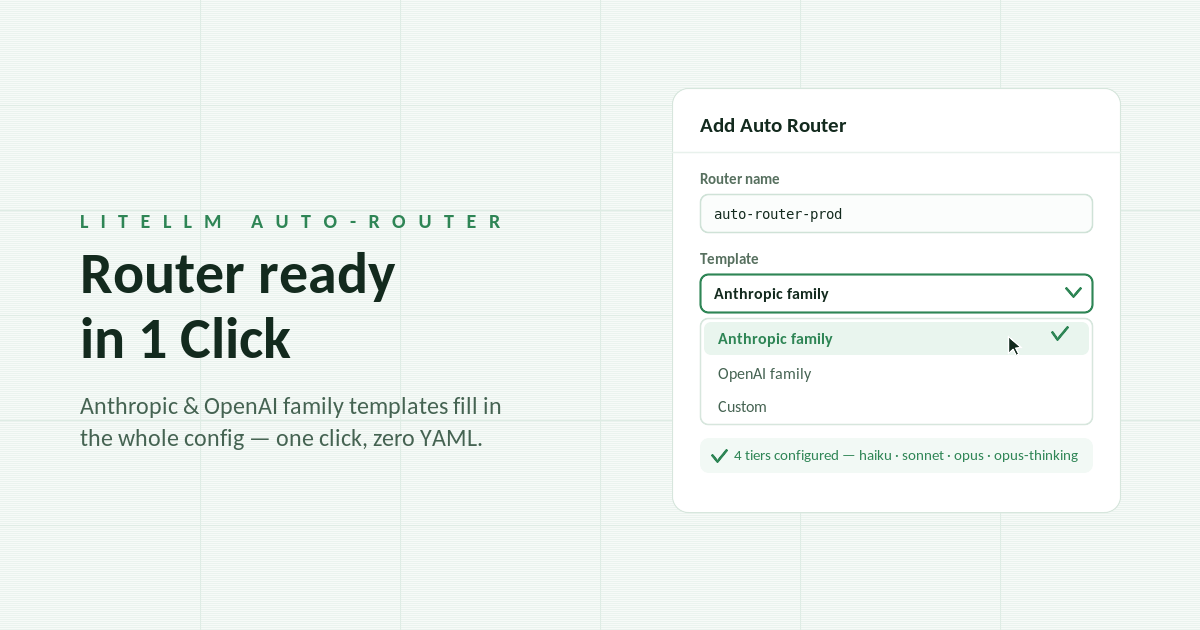
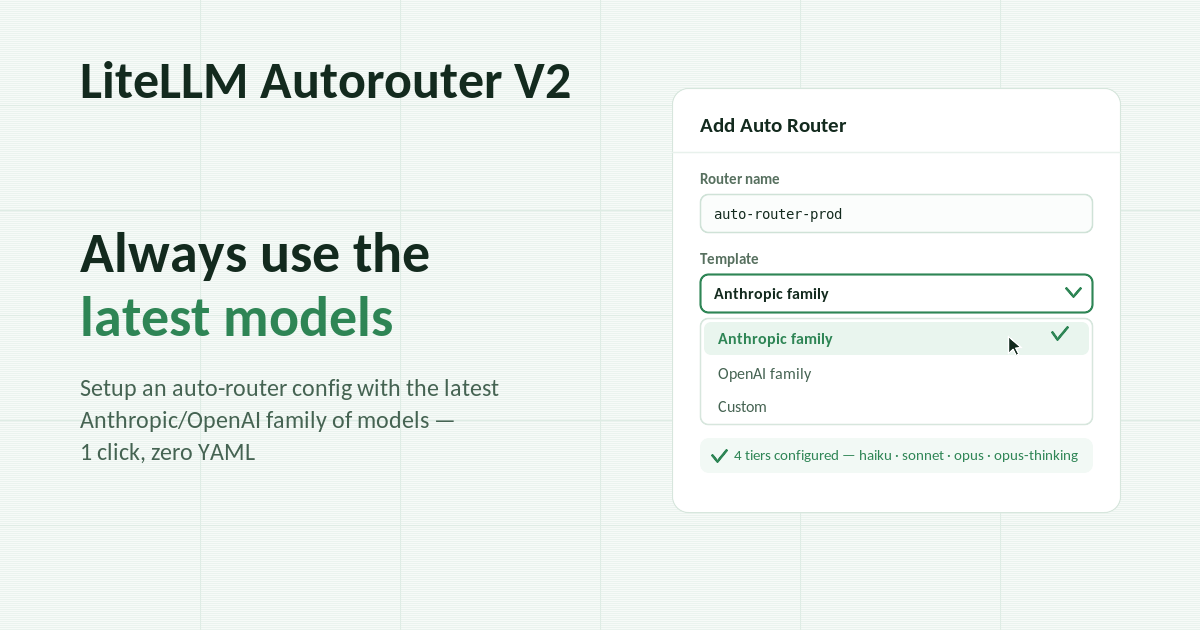
blog(autorouter): new hero, clarify preset model coverage (#781)

Changed region(s): [[0.0617, 0.3317, 0.4317, 0.573], [0.0617, 0.6032, 0.4317, 0.754], [0.0617, 0.0905, 0.4933, 0.181]]

diff --git a/blog/autorouter_setup_and_testing/index.md b/blog/autorouter_setup_and_testing/index.md
@@ -11,7 +11,7 @@ tags: [routing, complexity-router, ui, engineering]
 hide_table_of_contents: false
 ---
 
-![LiteLLM Auto-Router: router ready in 1 click](./hero.png)
+![LiteLLM Autorouter V2: always use the latest models](./hero.png)
 
 We've made it easier than ever to setup and test your Auto-Router, and with customizable tier names + classifier system prompts you can go beyond complexity routing. 
 
@@ -40,8 +40,9 @@ Already testing it? Share your results in [discussion #32168](https://github.com
 ![Add Auto Router form with the Anthropic Family template applied and the detailed configuration collapsed to a tier summary](./presets.png)
 
 - Add Auto Router now opens on a name field and a **Template** dropdown: Anthropic family, OpenAI family, or Custom
-- Picking a family fills in the whole config and collapses the detail behind a one-line tier summary
-- Presets that reference a model your proxy doesn't serve grey out and tell you which one is missing
+- Picking a family builds the whole config for you with the **latest models** in that family, so every tier is on current models without writing any YAML
+- The detail collapses behind a one-line tier summary; presets that reference a model your proxy doesn't serve grey out and tell you which one is missing
+- More families are coming; today Anthropic and OpenAI are covered, and Custom is there for everything else
 
 ## Let your agent set up the router
 
